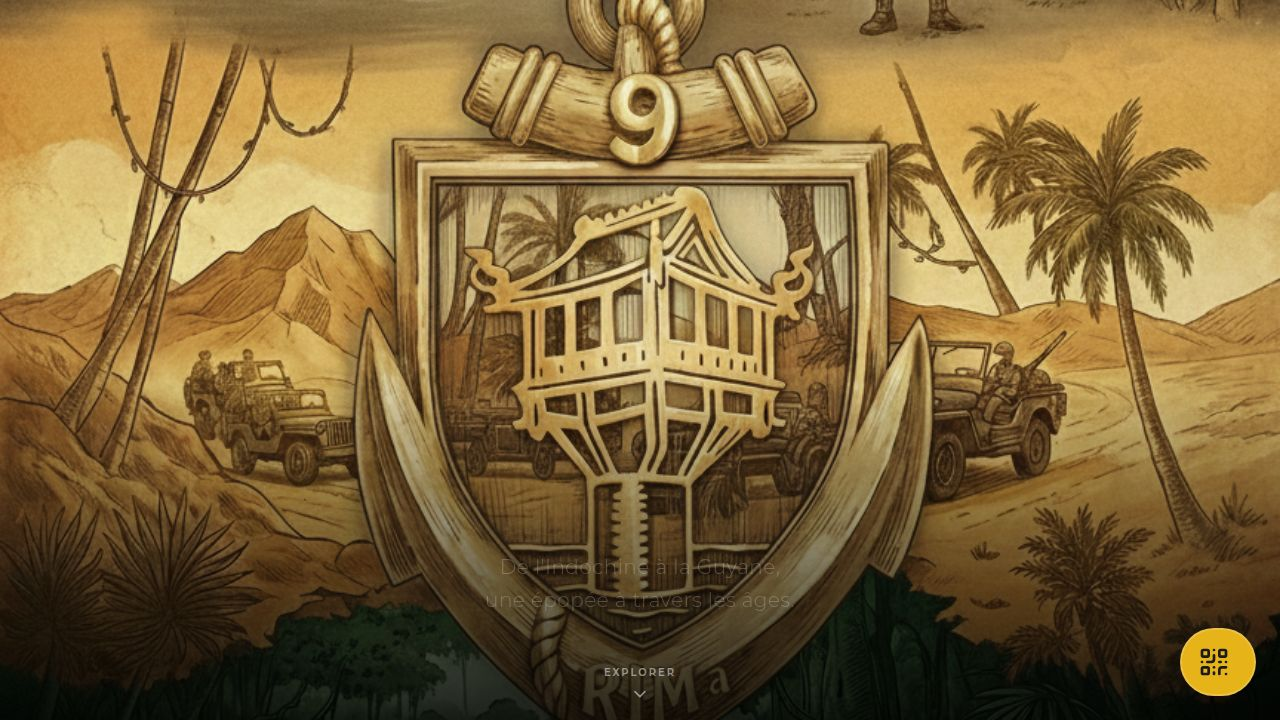
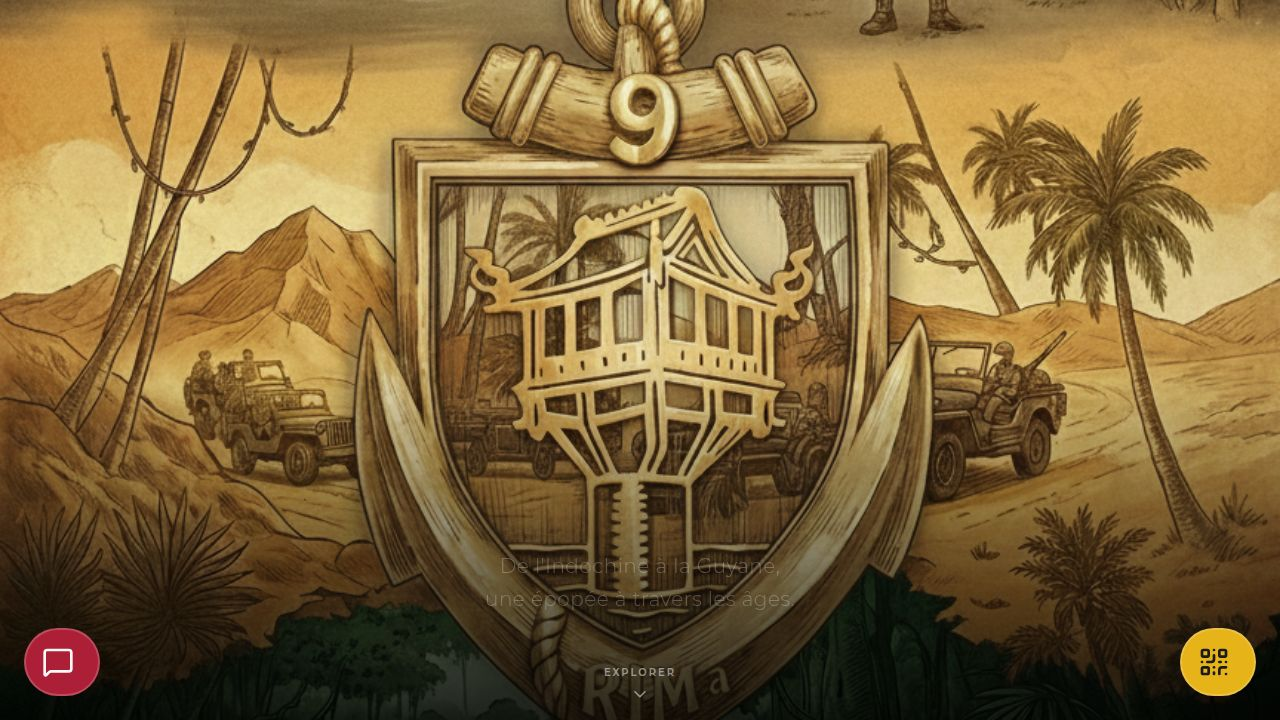
Add an AI assistant for users to connect with
Integrates a new AI assistant page with chat functionality and a floating access button.

Replit-Commit-Author: Agent
Replit-Commit-Session-Id: 2bac6932-5bef-4982-b6b7-3a5d0b9860c4
Replit-Commit-Checkpoint-Type: full_checkpoint
Replit-Commit-Event-Id: 126a9134-c669-4659-8cc6-7a215dde1b0c
Replit-Commit-Screenshot-Url: https://storage.googleapis.com/screenshot-production-us-central1/c3b9139b-e13a-4752-ba7b-b18da101b096/2bac6932-5bef-4982-b6b7-3a5d0b9860c4/s3zFvlX
Replit-Helium-Checkpoint-Created: true

Changed region(s): [[0.0, 0.8556, 0.0938, 0.9778]]

diff --git a/client/src/pages/AiAssistant.tsx b/client/src/pages/AiAssistant.tsx
@@ -1,0 +1,254 @@
+import { useState, useRef, useEffect } from "react";
+import { motion, AnimatePresence } from "framer-motion";
+import { Send, Bot, User, Sparkles, X, ChevronRight, MessageSquare, Loader2 } from "lucide-react";
+import { Button } from "@/components/ui/button";
+import { ScrollArea } from "@/components/ui/scroll-area";
+import { Input } from "@/components/ui/input";
+import { museumData } from "@/lib/data";
+
+interface Message {
+  id: string;
+  role: "user" | "assistant";
+  content: string;
+  timestamp: Date;
+}
+
+const SUGGESTED_QUESTIONS = [
+  "Raconte-moi l'histoire du Tonkin",
+  "Quelles sont les traditions du régiment ?",
+  "Que s'est-il passé en Algérie ?",
+  "Parle-moi de l'opération Harpie en Guyane",
+];
+
+export default function AiAssistant() {
+  const [isConnected, setIsConnected] = useState(false);
+  const [isConnecting, setIsConnecting] = useState(false);
+  const [messages, setMessages] = useState<Message[]>([]);
+  const [inputValue, setInputValue] = useState("");
+  const scrollRef = useRef<HTMLDivElement>(null);
+  const inputRef = useRef<HTMLInputElement>(null);
+
+  useEffect(() => {
+    if (scrollRef.current) {
+      scrollRef.current.scrollTop = scrollRef.current.scrollHeight;
+    }
+  }, [messages, isConnected]);
+
+  const handleConnect = () => {
+    setIsConnecting(true);
+    // Simulate connection delay
+    setTimeout(() => {
+      setIsConnecting(false);
+      setIsConnected(true);
+      setMessages([
+        {
+          id: "welcome",
+          role: "assistant",
+          content: "Bonjour. Je suis l'assistant virtuel du musée. Je peux répondre à vos questions sur l'histoire du régiment, ses campagnes et ses traditions. Comment puis-je vous aider aujourd'hui ?",
+          timestamp: new Date(),
+        },
+      ]);
+    }, 1500);
+  };
+
+  const handleSendMessage = (text: string = inputValue) => {
+    if (!text.trim()) return;
+
+    const newMessage: Message = {
+      id: Date.now().toString(),
+      role: "user",
+      content: text,
+      timestamp: new Date(),
+    };
+
+    setMessages((prev) => [...prev, newMessage]);
+    setInputValue("");
+
+    // Simulate AI response
+    setTimeout(() => {
+      const response = generateResponse(text);
+      setMessages((prev) => [
+        ...prev,
+        {
+          id: (Date.now() + 1).toString(),
+          role: "assistant",
+          content: response,
+          timestamp: new Date(),
+        },
+      ]);
+    }, 1000 + Math.random() * 1000);
+  };
+
+  const generateResponse = (query: string): string => {
+    const lowerQuery = query.toLowerCase();
+    
+    if (lowerQuery.includes("tonkin")) {
+      return "La période du Tonkin (1890-1946) marque les débuts du régiment en Indochine. C'était une époque d'exploration et de pacification, mais aussi de vie en garnison dans des postes isolés. Voulez-vous en savoir plus sur une bataille spécifique ?";
+    }
+    if (lowerQuery.includes("algérie") || lowerQuery.includes("algerie")) {
+      return "La guerre d'Algérie (1956-1962) a été une période complexe de maintien de l'ordre et de contre-insurrection. Le régiment a opéré principalement dans le secteur de Palestro et a participé aux opérations 'Commandos de Chasse'.";
+    }
+    if (lowerQuery.includes("guyane")) {
+      return "Depuis 1976, le régiment est installé en Guyane. Ses missions principales sont la protection du Centre Spatial Guyanais (opération Titan) et la lutte contre l'orpaillage illégal (opération Harpie) en forêt équatoriale.";
+    }
+    if (lowerQuery.includes("tradition") || lowerQuery.includes("esprit")) {
+      return "L'Esprit du 9 est forgé par plus d'un siècle d'histoire. Il se manifeste à travers nos chants, notre drapeau décoré, et nos traditions comme la fête de la Pagode qui commémore nos origines indochinoises.";
+    }
+    
+    return "C'est une excellente question. Je n'ai pas la réponse exacte dans ma base de connaissances immédiate, mais je vous invite à explorer la section correspondante du musée pour découvrir tous les détails.";
+  };
+
+  return (
+    <div className="min-h-screen bg-zinc-950 text-foreground flex flex-col relative overflow-hidden font-sans">
+      {/* Background Elements */}
+      <div className="absolute inset-0 z-0 pointer-events-none">
+        <div className="absolute top-[-20%] left-[-10%] w-[50%] h-[50%] bg-blue-500/10 rounded-full blur-[100px]" />
+        <div className="absolute bottom-[-20%] right-[-10%] w-[50%] h-[50%] bg-purple-500/10 rounded-full blur-[100px]" />
+      </div>
+
+      {/* Header */}
+      <header className="relative z-10 border-b border-white/10 bg-zinc-900/50 backdrop-blur-md p-4 flex items-center justify-between">
+        <div className="flex items-center gap-3">
+          <div className="bg-primary/20 p-2 rounded-lg">
+            <Bot className="h-6 w-6 text-primary" />
+          </div>
+          <div>
+            <h1 className="font-bold text-lg text-white">Assistant Musée</h1>
+            <div className="flex items-center gap-2">
+              <span className={`w-2 h-2 rounded-full ${isConnected ? "bg-green-500" : "bg-yellow-500"}`} />
+              <span className="text-xs text-muted-foreground">
+                {isConnected ? "En ligne" : "En attente"}
+              </span>
+            </div>
+          </div>
+        </div>
+        <Button variant="ghost" size="icon" onClick={() => window.history.back()}>
+          <X className="h-5 w-5" />
+        </Button>
+      </header>
+
+      {/* Main Content */}
+      <main className="flex-1 relative z-10 flex flex-col max-w-3xl mx-auto w-full h-[calc(100vh-80px)]">
+        <AnimatePresence mode="wait">
+          {!isConnected ? (
+            <motion.div
+              key="connect"
+              initial={{ opacity: 0, y: 20 }}
+              animate={{ opacity: 1, y: 0 }}
+              exit={{ opacity: 0, y: -20 }}
+              className="flex-1 flex flex-col items-center justify-center p-6 text-center"
+            >
+              <div className="w-24 h-24 bg-zinc-800 rounded-full flex items-center justify-center mb-8 relative">
+                <div className="absolute inset-0 rounded-full border border-white/10 animate-ping opacity-20" />
+                <Bot className="h-10 w-10 text-white" />
+              </div>
+              
+              <h2 className="text-3xl font-serif font-bold text-white mb-4">
+                Bonjour, visiteur
+              </h2>
+              <p className="text-muted-foreground max-w-md mb-8 leading-relaxed">
+                Je suis votre guide virtuel personnel. Connectez-vous pour explorer l'histoire du régiment, poser des questions et découvrir des anecdotes fascinantes.
+              </p>
+
+              <Button 
+                size="lg" 
+                className="bg-primary hover:bg-primary/90 text-primary-foreground px-8 py-6 rounded-full text-lg shadow-xl shadow-primary/20 transition-all hover:scale-105"
+                onClick={handleConnect}
+                disabled={isConnecting}
+              >
+                {isConnecting ? (
+                  <>
+                    <Loader2 className="mr-2 h-5 w-5 animate-spin" />
+                    Connexion en cours...
+                  </>
+                ) : (
+                  <>
+                    <Sparkles className="mr-2 h-5 w-5" />
+                    Se connecter à l'assistant
+                  </>
+                )}
+              </Button>
+            </motion.div>
+          ) : (
+            <motion.div
+              key="chat"
+              initial={{ opacity: 0 }}
+              animate={{ opacity: 1 }}
+              className="flex-1 flex flex-col h-full"
+            >
+              <div 
+                ref={scrollRef}
+                className="flex-1 overflow-y-auto p-4 space-y-6 scroll-smooth"
+              >
+                {messages.map((msg) => (
+                  <motion.div
+                    key={msg.id}
+                    initial={{ opacity: 0, y: 10, scale: 0.95 }}
+                    animate={{ opacity: 1, y: 0, scale: 1 }}
+                    className={`flex ${msg.role === "user" ? "justify-end" : "justify-start"}`}
+                  >
+                    <div 
+                      className={`
+                        max-w-[80%] rounded-2xl p-4 shadow-sm
+                        ${msg.role === "user" 
+                          ? "bg-primary text-primary-foreground rounded-tr-sm" 
+                          : "bg-zinc-800 text-zinc-100 rounded-tl-sm border border-white/5"}
+                      `}
+                    >
+                      <p className="leading-relaxed whitespace-pre-wrap">{msg.content}</p>
+                      <span className="text-[10px] opacity-50 mt-2 block text-right">
+                        {msg.timestamp.toLocaleTimeString([], { hour: '2-digit', minute: '2-digit' })}
+                      </span>
+                    </div>
+                  </motion.div>
+                ))}
+              </div>
+
+              {/* Suggestions (only if few messages) */}
+              {messages.length < 3 && (
+                <div className="px-4 pb-2">
+                  <p className="text-xs text-muted-foreground mb-2 ml-1">Questions suggérées :</p>
+                  <div className="flex gap-2 overflow-x-auto pb-2 scrollbar-hide">
+                    {SUGGESTED_QUESTIONS.map((q, i) => (
+                      <button
+                        key={i}
+                        onClick={() => handleSendMessage(q)}
+                        className="whitespace-nowrap bg-zinc-800 hover:bg-zinc-700 border border-white/10 rounded-full px-4 py-2 text-sm text-zinc-300 transition-colors flex-shrink-0"
+                      >
+                        {q}
+                      </button>
+                    ))}
+                  </div>
+                </div>
+              )}
+
+              {/* Input Area */}
+              <div className="p-4 bg-zinc-900/80 backdrop-blur border-t border-white/10">
+                <form 
+                  onSubmit={(e) => { e.preventDefault(); handleSendMessage(); }}
+                  className="relative flex items-center gap-2 max-w-3xl mx-auto"
+                >
+                  <Input
+                    ref={inputRef}
+                    value={inputValue}
+                    onChange={(e) => setInputValue(e.target.value)}
+                    placeholder="Posez une question sur le musée..."
+                    className="flex-1 bg-zinc-800/50 border-white/10 focus:border-primary/50 text-white placeholder:text-zinc-500 rounded-full py-6 pl-6 pr-12"
+                  />
+                  <Button 
+                    type="submit" 
+                    size="icon" 
+                    className="absolute right-2 rounded-full h-10 w-10 bg-primary hover:bg-primary/90"
+                    disabled={!inputValue.trim()}
+                  >
+                    <Send className="h-4 w-4" />
+                  </Button>
+                </form>
+              </div>
+            </motion.div>
+          )}
+        </AnimatePresence>
+      </main>
+    </div>
+  );
+}

diff --git a/client/src/components/layout.tsx b/client/src/components/layout.tsx
@@ -1,14 +1,15 @@
 import { ReactNode } from "react";
 import { Link, useLocation } from "wouter";
-import { QrCode, ArrowLeft } from "lucide-react";
+import { QrCode, ArrowLeft, MessageSquare } from "lucide-react";
 import { cn } from "@/lib/utils";
 
 export function Layout({ children, className }: { children: ReactNode; className?: string }) {
   const [location] = useLocation();
   const isHome = location === "/";
+  const isAi = location === "/ai-assistant";
 
   return (
-    <div className={cn("min-h-screen bg-background text-foreground font-sans", className)}>
+    <div className="min-h-screen bg-background text-foreground font-sans">
       {/* Floating Scanner Button */}
       <Link href="/scan">
         <button 
@@ -22,13 +23,28 @@ export function Layout({ children, className }: { children: ReactNode; className
         </button>
       </Link>
 
+      {/* Floating AI Assistant Button */}
+      {!isAi && (
+        <Link href="/ai-assistant">
+          <button 
+            className="fixed bottom-6 left-6 z-50 bg-primary text-primary-foreground rounded-full p-4 shadow-2xl shadow-black/50 border-2 border-white/20 transition-transform active:scale-95 hover:scale-110 flex items-center gap-2 group"
+            aria-label="Assistant IA"
+          >
+            <MessageSquare className="h-8 w-8" />
+            <span className="max-w-0 overflow-hidden group-hover:max-w-xs transition-all duration-300 ease-in-out whitespace-nowrap font-bold text-sm">
+              ASSISTANT
+            </span>
+          </button>
+        </Link>
+      )}
+
       {/* Main Content */}
       <main className="relative">
         {children}
       </main>
 
       {/* Back Button (if not home) */}
-      {!isHome && location !== "/scan" && (
+      {!isHome && location !== "/scan" && !isAi && (
         <button 
           onClick={() => window.history.back()}
           className="fixed top-4 left-4 z-40 bg-background/50 backdrop-blur-md p-2 rounded-full border border-white/10 text-foreground shadow-lg active:scale-95"

diff --git a/client/src/App.tsx b/client/src/App.tsx
@@ -4,6 +4,7 @@ import Home from "./pages/Home";
 import DetailPage from "./pages/Detail";
 import TonkinOriginsPage from "./pages/asia/TonkinOrigins";
 import ScanPage from "./pages/Scan";
+import AiAssistant from "./pages/AiAssistant";
 import NotFound from "./pages/not-found";
 
 function Router() {
@@ -11,6 +12,7 @@ function Router() {
     <Layout>
       <Switch>
         <Route path="/" component={Home} />
+        <Route path="/ai-assistant" component={AiAssistant} />
         <Route path="/detail/:id" component={DetailPage} />
         <Route path="/asie/naissance-du-9-tonkin" component={TonkinOriginsPage} />
         <Route path="/scan" component={ScanPage} />
